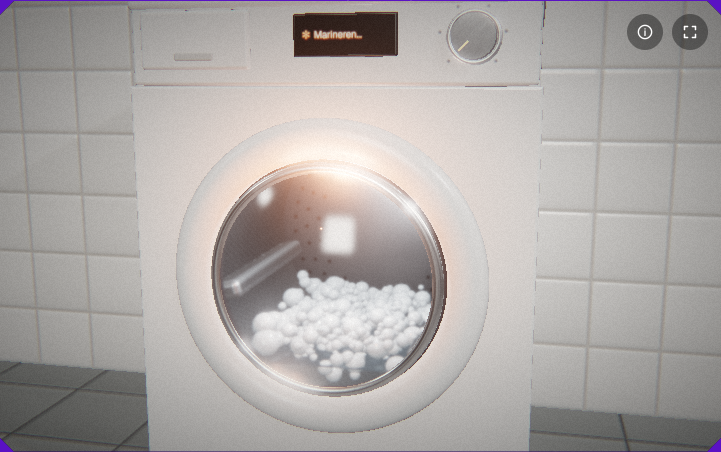
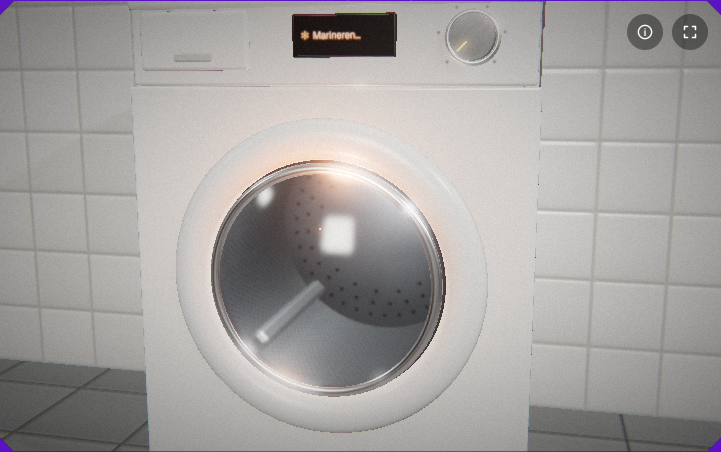
Mashups: lege wasmachine, klok met secondewijzer, bovenrek in de vaatwasser
- Bufferen: schuim en water weg, de trommel is leeg.
- Nadenken: secondewijzer erbij; de klok slaat als hartwijzer en secondewijzer
  op hetzelfde streepje staan.
- Opschonen: bovenrek met kopjes staat in de machine, camera lager zodat de
  borden zichtbaar blijven; binnenlampje dat de kopjes overbelichtte gedimd;
  stoom elke derde hartslag.
- Ook de camerabeweging loopt nu op de hartslag.

diff --git a/src/speelkamer/mashups/opschonen.ts b/src/speelkamer/mashups/opschonen.ts
@@ -2,7 +2,7 @@
  * Opschonen: vaatwasser × defragmenteren.
  * Een open vaatwasser. De borden in het onderrek zijn de blokken van een harde schijf:
  * terracotta = gefragmenteerd, kobalt = op zijn plek, celadon = systeembestand (blijft staan).
- * Het bovenrek met kopjes is naar voren uitgetrokken. Bij elke hartslag zet de machine één bord
+ * In het bovenrek staan kopjes. Bij elke hartslag zet de machine één bord
  * op zijn plaats en geeft de sproeiarm een stoot. Is alles opgeruimd, dan spoelt hij even na,
  * en begint een nieuwe dag.
  */
@@ -38,8 +38,8 @@ function clink(vol = 0.05) {
 export function opschonen(st: Stage): Mashup {
   const S = st.scene;
   S.background = new THREE.Color(0x14110f);
-  st.rig.pos.set(0.3, 1.78, 1.12);
-  st.rig.target.set(0, 0.26, -0.14);
+  st.rig.pos.set(0.22, 1.02, 1.36);
+  st.rig.target.set(0, 0.3, -0.3);
   st.camera.fov = 33;
   st.scene.environmentIntensity = 0.45;
   st.finish.uniforms.warmth.value = 0.25;
@@ -81,7 +81,7 @@ export function opschonen(st: Stage): Mashup {
   // ---------------------------------------------------------------- vaatwasser
   const brushed = brushedTex(47, 512, true).tex;
   const steel = mat.steel(0.3, brushed);
-  const tub = new THREE.Mesh(new THREE.BoxGeometry(0.56, 0.72, 0.58), new THREE.MeshStandardMaterial({ color: 0xc9ccce, metalness: 1, roughness: 0.34, roughnessMap: brushed, side: THREE.BackSide }));
+  const tub = new THREE.Mesh(new THREE.BoxGeometry(0.56, 0.72, 0.58), new THREE.MeshStandardMaterial({ color: 0xb9bcbe, metalness: 1, roughness: 0.42, roughnessMap: brushed, envMapIntensity: 0.35, side: THREE.BackSide }));
   tub.position.set(0, 0.46, -0.29);
   S.add(tub);
   const lip = new THREE.Mesh(new THREE.BoxGeometry(0.6, 0.04, 0.03), steel);
@@ -108,8 +108,8 @@ export function opschonen(st: Stage): Mashup {
   const led = new THREE.Mesh(new THREE.BoxGeometry(0.4, 0.006, 0.012), new THREE.MeshBasicMaterial({ color: new THREE.Color(1.6, 1.7, 1.9) }));
   led.position.set(0, 0.815, -0.04);
   S.add(led);
-  const inner = new THREE.PointLight(0xe8f2ff, 0.9, 1.4, 2);
-  inner.position.set(0, 0.74, -0.12);
+  const inner = new THREE.PointLight(0xe8f2ff, 0.12, 1.2, 2);
+  inner.position.set(0, 0.36, 0.02);
   inner.castShadow = true;
   inner.shadow.mapSize.set(1024, 1024);
   inner.shadow.radius = 5;
@@ -152,10 +152,10 @@ export function opschonen(st: Stage): Mashup {
       const z = slotZ(k) - 0.0205;
       for (const dx of [-0.05, 0.05]) lines.push(m4(new THREE.Vector3(cx + dx, 0.035, z), new THREE.Euler(0.18, 0, 0), 0.7));
     }
-  // bovenrek: naar voren uitgetrokken over de open deur, met kopjes ondersteboven
+  // bovenrek met kopjes ondersteboven, gewoon in de machine
   const up = new THREE.Group();
   const UX = 0.24, UZ = 0.2;
-  up.position.set(0, 0.44, 0.38);
+  up.position.set(0, 0.52, -0.3);
   S.add(up);
   const ul: THREE.Matrix4[] = [];
   for (let i = 0; i <= 10; i++) ul.push(m4(new THREE.Vector3(-UX + (i / 10) * 2 * UX, 0, 0), new THREE.Euler(Math.PI / 2, 0, 0), (2 * UZ) / 0.1));
@@ -174,10 +174,10 @@ export function opschonen(st: Stage): Mashup {
   const uInst = new THREE.InstancedMesh(wire(0.1), coat, ul.length);
   ul.forEach((m, i) => uInst.setMatrixAt(i, m));
   up.add(uInst);
-  // rails van het bovenrek, vanuit de kuip naar voren
+  // rails van het bovenrek
   for (const s2 of [-1, 1]) {
-    const rail = new THREE.Mesh(new RoundedBoxGeometry(0.012, 0.02, 0.92, 2, 0.003), mat.steel(0.25));
-    rail.position.set(s2 * (UX + 0.022), 0.45, 0.2);
+    const rail = new THREE.Mesh(new RoundedBoxGeometry(0.012, 0.02, 0.56, 2, 0.003), mat.steel(0.25));
+    rail.position.set(s2 * (UX + 0.022), 0.53, -0.3);
     S.add(rail);
     for (const z of [-0.12, 0.12]) {
       const w = new THREE.Mesh(new THREE.CylinderGeometry(0.011, 0.011, 0.008, 16), mat.plastic(0x3a3c40));
@@ -327,6 +327,7 @@ export function opschonen(st: Stage): Mashup {
   let soundOn = false;
   let tNow = 0;
   let spurt = 0;
+  let steamDue = false;
 
   const progress = () => {
     const good = plates.filter((p) => p.cat === 'ok' && T.has(p.slot) && !p.anim).length;
@@ -395,6 +396,7 @@ export function opschonen(st: Stage): Mashup {
         lastBeatT = t;
         step();
         spurt = 1;
+        if (b % 3 === 0) steamDue = true; // elke derde slag een wolkje stoom
       }
       spurt = Math.max(0, spurt - dt * 2.2);
       // borden in beweging
@@ -450,11 +452,12 @@ export function opschonen(st: Stage): Mashup {
         pPos[i * 3] += pVel[i * 3] * dt;
         pPos[i * 3 + 1] += pVel[i * 3 + 1] * dt;
         pPos[i * 3 + 2] += pVel[i * 3 + 2] * dt;
-        if (pPos[i * 3 + 1] < 0.11 || (pPos[i * 3 + 1] > 0.43 && pPos[i * 3 + 2] > 0.25)) pLife[i] = 0;
+        if (pPos[i * 3 + 1] < 0.11 || pPos[i * 3 + 1] > 0.51) pLife[i] = 0;
       }
       pGeo.attributes.position.needsUpdate = true;
       // stoom komt rustig naar buiten
-      if (Math.random() < dt * (0.9 + rinse * 0.6)) {
+      if (steamDue) {
+        steamDue = false;
         const s = steam.find((x) => !x.s.visible);
         if (s) {
           s.s.visible = true;
@@ -475,7 +478,7 @@ export function opschonen(st: Stage): Mashup {
         s.s.position.set(s.x + s.vx * s.age, lerp(0.55, 1.15, k), lerp(-0.08, 0.12, k));
         const sc = lerp(0.18, 0.55, k);
         s.s.scale.set(sc, sc, 1);
-        s.s.material.opacity = Math.sin(k * Math.PI) * 0.07;
+        s.s.material.opacity = Math.sin(k * Math.PI) * 0.035;
       }
       hum?.filter.frequency.setTargetAtTime(380 + lvl * 420 * rinse, audio().ctx.currentTime, 0.15);
     },

diff --git a/src/speelkamer/mashups/nadenken.ts b/src/speelkamer/mashups/nadenken.ts
@@ -1,9 +1,9 @@
 /**
  * Nadenken: een regulateur die op je hartslag loopt.
- * Uur- en minuutwijzer geven de gewone tijd aan. De terracotta lolliwijzer is je hart: hij springt
- * één streepje per hartslag, en de slinger zwaait één keer per slag. Telkens als de hartwijzer de
- * minuutwijzer inhaalt, slaat de klok: de tijd en je hartslag raken elkaar even. Hoe rustiger je
- * hart, hoe langer het duurt tot de volgende slag.
+ * Uur-, minuut- en secondewijzer geven de gewone tijd aan. De terracotta lolliwijzer is je hart: hij
+ * springt één streepje per hartslag, en de slinger zwaait één keer per slag. Telkens als hartwijzer
+ * en secondewijzer op hetzelfde streepje staan, slaat de klok: de tijd en je hartslag raken elkaar.
+ * Hoe dichter je hart bij 60 slagen per minuut komt, hoe langer ze samen oplopen.
  * Over de muur trekt langzaam het zonlicht van een raam.
  */
 import * as THREE from 'three';
@@ -241,6 +241,18 @@ export function nadenken(st: Stage): Mashup {
   const minHand = new THREE.Mesh(breguet(0.112, 0.0032), blued);
   minHand.position.set(0, dialY, handZ + 0.0018);
   clock.add(minHand);
+  // secondewijzer: een dunne stalen naald met contragewicht
+  const secShape = new THREE.Shape();
+  secShape.moveTo(-0.0007, -0.032);
+  secShape.lineTo(0.0007, -0.032);
+  secShape.lineTo(0.00045, 0.118);
+  secShape.lineTo(-0.00045, 0.118);
+  secShape.closePath();
+  const secW = new THREE.Shape();
+  secW.absarc(0, -0.026, 0.0052, 0, Math.PI * 2, false);
+  const secHand = new THREE.Mesh(new THREE.ExtrudeGeometry([secShape, secW], { depth: 0.001, bevelEnabled: false, curveSegments: 20 }), new THREE.MeshStandardMaterial({ color: 0x1a1a1c, metalness: 0.8, roughness: 0.3 }));
+  secHand.position.set(0, dialY, handZ + 0.0029);
+  clock.add(secHand);
   const lolly = new THREE.Shape();
   lolly.moveTo(-0.0011, -0.03);
   lolly.lineTo(0.0011, -0.03);
@@ -253,7 +265,7 @@ export function nadenken(st: Stage): Mashup {
   tail.absarc(0, -0.026, 0.004, 0, Math.PI * 2, false);
   const terra = new THREE.MeshStandardMaterial({ color: TERRA, roughness: 0.35, metalness: 0.2 });
   const beatHand = new THREE.Mesh(new THREE.ExtrudeGeometry([lolly, disc, tail], { depth: 0.0012, bevelEnabled: false, curveSegments: 24 }), terra);
-  beatHand.position.set(0, dialY, handZ + 0.0038);
+  beatHand.position.set(0, dialY, handZ + 0.0042);
   clock.add(beatHand);
   // naaf: een kleine vonk, die gloeit als de klok slaat
   const sparkTex = canvasTex(256, 256, (g) => {
@@ -307,9 +319,10 @@ export function nadenken(st: Stage): Mashup {
   let soundOn = false;
   let strikes = 0;
   let strikeT = -99;
-  let prevGap = NaN;
+  let armed = false;
+  let lastSec = -1;
+  let secT = 0;
   const TAU = Math.PI * 2;
-  const wrap = (a: number) => ((a % 1) + 1) % 1;
 
   return {
     setSound(on) {
@@ -330,9 +343,17 @@ export function nadenken(st: Stage): Mashup {
         stepped = true;
         if (soundOn) tick(0.22, b % 2 === 1);
       }
-      // gewone tijd
+      // gewone tijd; de secondewijzer verspringt elke seconde, zonder geluid: het tikken is van je hart
       const now = new Date();
-      const sec = now.getSeconds() + now.getMilliseconds() / 1000;
+      const s = now.getSeconds();
+      if (s !== lastSec) {
+        lastSec = s;
+        secT = t;
+        stepped = true;
+      }
+      const sec = s + now.getMilliseconds() / 1000;
+      const ks = Math.min(1, (t - secT) / 0.18);
+      secHand.rotation.z = -((s - 1 + ease(ks)) / 60) * TAU;
       const min = (now.getMinutes() + sec / 60) / 60;
       const hr = ((now.getHours() % 12) + min) / 12;
       minHand.rotation.z = -min * TAU;
@@ -342,15 +363,17 @@ export function nadenken(st: Stage): Mashup {
       const over = Math.sin(Math.min(1, (t - beatT) / 0.6) * Math.PI) * 0.06 * (1 - k * 0.5);
       const heart = (b - 1 + ease(k)) / 60;
       beatHand.rotation.z = -heart * TAU - over * 0.02;
-      // slaan: de hartwijzer haalt de minuutwijzer in
+      // slaan: hartwijzer en secondewijzer staan op hetzelfde streepje. Daarna pas weer slaan als ze
+      // minstens vijf streepjes uit elkaar zijn geweest (lopen ze gelijk op, dan slaat hij maar één keer).
       if (stepped) {
-        const gap = wrap(b / 60 - min); // 0..1, hoe ver het hart vóór de tijd loopt
-        if (!Number.isNaN(prevGap) && prevGap > 0.9 && gap < 0.1 && t - strikeT > 8) {
+        const gap = (((b - s) % 60) + 60) % 60;
+        const dist = Math.min(gap, 60 - gap);
+        if (gap === 0 && armed) {
+          armed = false;
           strikes++;
           strikeT = t;
           if (soundOn) gong(0.55);
-        }
-        prevGap = gap;
+        } else if (dist >= 5) armed = true;
       }
       const glow = Math.exp(-(t - strikeT) * 0.9);
       capMat.emissiveIntensity = glow * 2.2;

diff --git a/src/speelkamer/Machines.tsx b/src/speelkamer/Machines.tsx
@@ -17,9 +17,9 @@ const GROEPEN: { titel: string; items: Machine[] }[] = [
 ];
 const TEKST: Record<Machine, { titel: string; kort: string; regel: string; spiegel: string }> = {
   opwarmen: { titel: 'Opwarmen', kort: 'magnetron × datacentrum', regel: 'Een magnetron uit de jaren tachtig. Op het draaiplateau staat geen mok maar een klein datacentrum. De racks knipperen en worden langzaam warm, en uit de kasten stijgen getallen op als stoom: enen en nullen, en de gewichten van een model. Je kijkt naar iets dat opwarmt, zoals je altijd naar een magnetron kijkt.', spiegel: 'Het plateau draait mee met je hart: tien slagen per rondje. De kookwekker tikt één seconde terug per hartslag, twee minuten lichaamstijd. Bij elke slag stijgt er een wolkje getallen op.' },
-  opschonen: { titel: 'Opschonen', kort: 'vaatwasser × defragmenteren', regel: 'Een open vaatwasser, het bovenrek met kopjes uitgetrokken. De borden in het onderrek zijn de blokken van een harde schijf: terracotta is gefragmenteerd, kobalt staat op zijn plek, celadon is een systeembestand dat nooit verschuift. De machine ruimt op, bord voor bord. Daarna spoelt hij na, en begint een nieuwe dag. Op de vloer ligt de kaart van de schijf als lichtvlek.', spiegel: 'Bij elke hartslag zet de machine één bord op zijn plaats en geeft de sproeiarm een stoot.' },
-  nadenken: { titel: 'Nadenken', kort: 'klok × hartslag', regel: 'Een regulateur aan de muur. Uur- en minuutwijzer geven gewoon de tijd aan. De terracotta lolliwijzer is je hart. Telkens als hij de minuutwijzer inhaalt, slaat de klok: de tijd en je hartslag raken elkaar even. Over de muur trekt langzaam het licht van een raam.', spiegel: 'De hartwijzer springt één streepje per hartslag en de slinger zwaait één keer per slag. Hoe rustiger je hart, hoe langer het duurt tot de klok weer slaat.' },
-  bufferen: { titel: 'Bufferen', kort: 'wasmachine × denkwoorden', regel: 'Een voorlader die nadenkt zoals een AI. De fases van het wasprogramma heten marineren, karnen, sudderen, herkauwen, mijmeren en zweven. Rond de deur draait een laadwieltje van lampjes. De trommel heeft de echte wascadans: een paar rondjes linksom, even stil, rondjes rechtsom. Binnenin alleen schuim.', spiegel: 'Het wieltje zet één stap per hartslag. De trommel telt zijn cadans in hartslagen, dus hij draait trager als jij rustiger wordt.' },
+  opschonen: { titel: 'Opschonen', kort: 'vaatwasser × defragmenteren', regel: 'Een open vaatwasser, met kopjes in het bovenrek. De borden in het onderrek zijn de blokken van een harde schijf: terracotta is gefragmenteerd, kobalt staat op zijn plek, celadon is een systeembestand dat nooit verschuift. De machine ruimt op, bord voor bord. Daarna spoelt hij na, en begint een nieuwe dag.', spiegel: 'Bij elke hartslag zet de machine één bord op zijn plaats en geeft de sproeiarm een stoot. De sproeiarm draait mee op je hart, elke derde slag komt er een wolkje stoom naar buiten.' },
+  nadenken: { titel: 'Nadenken', kort: 'klok × hartslag', regel: 'Een regulateur aan de muur. Uur-, minuut- en secondewijzer geven gewoon de tijd aan. De terracotta lolliwijzer is je hart. Telkens als hartwijzer en secondewijzer op hetzelfde streepje staan, slaat de klok: de tijd en je hartslag raken elkaar even. Over de muur trekt langzaam het licht van een raam.', spiegel: 'De hartwijzer springt één streepje per hartslag en de slinger zwaait één keer per slag. Hoe dichter je hart bij 60 slagen per minuut komt, hoe langer de twee wijzers samen oplopen en hoe zeldzamer de klok slaat.' },
+  bufferen: { titel: 'Bufferen', kort: 'wasmachine × denkwoorden', regel: 'Een voorlader die nadenkt zoals een AI. De fases van het wasprogramma heten marineren, karnen, sudderen, herkauwen, mijmeren en zweven. Rond de deur draait een laadwieltje van lampjes. De trommel heeft de echte wascadans: een paar rondjes linksom, even stil, rondjes rechtsom.', spiegel: 'Het wieltje zet één stap per hartslag. De trommel telt zijn cadans in hartslagen, dus hij draait trager als jij rustiger wordt.' },
   magnetron: { titel: 'Draaiplateau', kort: 'magnetron', regel: 'Een mok die langzaam rondjes draait in warm licht. Wachten tot de piep.', spiegel: 'Het plateau draait één keer per ademhaling. Een echt plateau draait 5 à 6 keer per minuut: het tempo van rustig ademen.' },
   wasmachine: { titel: 'Trommel', kort: 'wasmachine', regel: 'Wasgoed dat valt en weer wordt opgetild. Linksom, even stil, rechtsom.', spiegel: 'De trommel draait één keer per ademhaling.' },
   projectie: { titel: 'Nog 1:12', kort: 'vaatwasser', regel: 'Een moderne vaatwasser projecteert de resterende tijd als lichtvlek op de keukenvloer. Je kijkt ernaar zonder iets te verwachten.', spiegel: 'De tijd telt één seconde af per hartslag; de lichtgolven dijen uit op je adem.' },

diff --git a/src/speelkamer/mashups/bufferen.ts b/src/speelkamer/mashups/bufferen.ts
@@ -3,13 +3,13 @@
  * Een voorlader die 'nadenkt' zoals een AI: de fases van het wasprogramma heten marineren, karnen,
  * sudderen, herkauwen, mijmeren en zweven. Rond de deur loopt een ring van lampjes als laadwieltje,
  * één stap per hartslag. De trommel heeft de echte wascadans: een paar rondjes linksom, even stil,
- * rondjes rechtsom. In de trommel alleen schuim.
+ * rondjes rechtsom. De trommel is leeg.
  */
 import * as THREE from 'three';
 import { RoundedBoxGeometry } from 'three/examples/jsm/geometries/RoundedBoxGeometry.js';
 import { audio, Hum, tick } from '../sound';
 import type { Drive } from '../Digitaal';
-import { brushedTex, canvasTex, font, keyLight, mat, rng, shadows, tileTex, type Mashup, type Stage } from './stage';
+import { brushedTex, canvasTex, font, keyLight, mat, shadows, tileTex, type Mashup, type Stage } from './stage';
 
 /** Fases van het programma: een denkwoord en hoe de trommel beweegt (omwentelingen per hartslag). */
 type Fase = { woord: string; omega: (p: number) => number };
@@ -224,42 +224,6 @@ export function bufferen(st: Stage): Mashup {
   drumLight.position.set(0, doorY + 0.1, dz + 0.12);
   m.add(drumLight);
 
-  // water
-  const waterY = -0.152;
-  const chord = 2 * Math.sqrt(0.2 * 0.2 - waterY * waterY);
-  const foam = canvasTex(512, 512, (g) => {
-    g.fillStyle = '#3f525c';
-    g.fillRect(0, 0, 512, 512);
-    const r = rng(79);
-    for (let i = 0; i < 260; i++) {
-      g.fillStyle = `rgba(240,248,255,${0.03 + r() * 0.16})`;
-      g.beginPath();
-      g.arc(r() * 512, r() * 512, 2 + r() * 14, 0, Math.PI * 2);
-      g.fill();
-    }
-  });
-  const water = new THREE.Mesh(new THREE.PlaneGeometry(chord, 0.36, 24, 24), new THREE.MeshPhysicalMaterial({ map: foam.tex, roughness: 0.06, clearcoat: 1, metalness: 0.1 }));
-  water.rotation.x = -Math.PI / 2;
-  water.position.set(0, doorY + waterY, dz);
-  m.add(water);
-
-  // schuim: honderden belletjes die op de bodem liggen en meegolven met de trommel
-  const r = rng(83);
-  const NB = 520;
-  const foamMat = new THREE.MeshPhysicalMaterial({ color: 0xf2f6f9, roughness: 0.18, clearcoat: 1, clearcoatRoughness: 0.05, iridescence: 0.45, iridescenceIOR: 1.3, sheen: 0.5, sheenColor: new THREE.Color(0xdfefff) });
-  const bubbles = new THREE.InstancedMesh(new THREE.IcosahedronGeometry(1, 3), foamMat, NB);
-  bubbles.castShadow = bubbles.receiveShadow = true;
-  m.add(bubbles);
-  const bub = Array.from({ length: NB }, () => {
-    const depth = Math.pow(r(), 0.7); // 0 = tegen de wand, 1 = bovenop de berg
-    return { a: -Math.PI / 2 + (r() - 0.5) * 2.2 * (1 - depth * 0.55), rr: 0.19 - depth * 0.07 - r() * 0.01, z: dz - 0.17 + r() * 0.34, s: 0.005 + r() * r() * 0.022 * (1 - depth * 0.4), ph: r() * 6 };
-  });
-  const bm = new THREE.Matrix4();
-  const bq = new THREE.Quaternion();
-  const bv = new THREE.Vector3();
-  const bs = new THREE.Vector3();
-  water.visible = true;
-
   shadows(m);
   floor.receiveShadow = wall.receiveShadow = true;
   glass.castShadow = false;
@@ -276,7 +240,6 @@ export function bufferen(st: Stage): Mashup {
   let prog = 0;
   let hum: Hum | null = null;
   let soundOn = false;
-  let slosh = 0;
 
   let lcdKey = '';
   const drawLcd = () => {
@@ -330,27 +293,9 @@ export function bufferen(st: Stage): Mashup {
       const db = Number.isNaN(prevBeat) ? 0 : Math.max(0, Math.min(0.2, d.beat - prevBeat));
       prevBeat = d.beat;
       const want = FASES[prog].omega(beatsIn + (d.beat - b));
-      const prevOmega = omega;
       omega += (want - omega) * Math.min(1, dt * 2.2); // traagheid: rustig optrekken en uitlopen
       angle += omega * db * Math.PI * 2;
       drum.rotation.z = angle;
-      // schuim klotst tegen de draairichting in en zakt weer terug
-      const acc = (omega - prevOmega) / Math.max(dt, 1e-3);
-      slosh += (Math.max(-0.6, Math.min(0.6, omega * 0.9 + acc * 0.25)) - slosh) * Math.min(1, dt * 1.6);
-      water.rotation.y = slosh * 0.08;
-      water.position.y = doorY + waterY + Math.sin(t * 1.1) * 0.002;
-      for (let i = 0; i < NB; i++) {
-        const q = bub[i];
-        const lift = slosh * (0.5 + (0.19 - q.rr) * 4);
-        const a = q.a + lift + Math.sin(t * 0.7 + q.ph) * 0.02;
-        const rr = q.rr + Math.sin(t * 0.9 + q.ph * 2) * 0.002;
-        bv.set(Math.cos(a) * rr, doorY + Math.sin(a) * rr, q.z);
-        const sc = q.s * (1 + Math.sin(t * 1.3 + q.ph) * 0.06);
-        bs.set(sc, sc * 0.92, sc);
-        bm.compose(bv, bq, bs);
-        bubbles.setMatrixAt(i, bm);
-      }
-      bubbles.instanceMatrix.needsUpdate = true;
       // laadwieltje rond de deur: één stap per hartslag, met een staart
       const since = t - headT;
       dots.forEach((dm, i) => {

diff --git a/src/speelkamer/mashups/Mashup.tsx b/src/speelkamer/mashups/Mashup.tsx
@@ -53,8 +53,9 @@ export default function Mashup({ kind, d, soundOn, info }: { kind: MashupKind; d
       last = now;
       const t = now / 1000;
       m.update(dRef.current, t, dt);
-      // de camera schuift heel traag heen en weer in een eigen tempo (14 s), los van de bezoeker
-      st.render(0.5 - 0.5 * Math.cos((t / 14) * Math.PI * 2), t);
+      // ook de camera loopt op de hartslag: heel traag in en uit, één keer per 14 slagen
+      const beat = dRef.current.beat;
+      st.render(0.5 - 0.5 * Math.cos((beat / 14) * Math.PI * 2), beat);
       if (now - lastStatus > 250) {
         lastStatus = now;
         setStatus(m.status());

diff --git a/docs/werkvormen/07-machine-meditaties.md b/docs/werkvormen/07-machine-meditaties.md
@@ -36,11 +36,11 @@ Het idee erachter: we wachten al een eeuw op machines. Eerst op de magnetron en 
 | Mashup | Wat je ziet | Op je hartslag |
 |---|---|---|
 | **Opwarmen**<br>magnetron × datacentrum | Een magnetron uit de jaren tachtig. Op het draaiplateau staat een klein datacentrum. De racks knipperen en worden langzaam warm. Uit de kasten stijgen getallen op als stoom: enen en nullen, en de gewichten van een model. | Het plateau draait tien slagen per rondje. De kookwekker tikt één seconde terug per hartslag: twee minuten lichaamstijd. Bij elke slag stijgt er een wolkje getallen op. |
-| **Opschonen**<br>vaatwasser × defragmenteren | Een open vaatwasser, het bovenrek met kopjes uitgetrokken. De borden in het onderrek zijn de blokken van een harde schijf: terracotta is gefragmenteerd, kobalt staat op zijn plek, celadon is een systeembestand dat nooit verschuift. Daarna spoelt hij na en begint een nieuwe dag. | Bij elke hartslag zet de machine één bord op zijn plaats, met een tikje van de leeskop en het klinken van porselein. De sproeiarm geeft een stoot. |
-| **Nadenken**<br>klok × hartslag | Een regulateur aan de muur. Uur- en minuutwijzer geven de gewone tijd aan. De terracotta lolliwijzer is je hart. Telkens als hij de minuutwijzer inhaalt, slaat de klok: de tijd en je hartslag raken elkaar even. | De hartwijzer springt één streepje per slag, de slinger zwaait één keer per slag. Hoe rustiger je hart, hoe langer het duurt tot de klok weer slaat. |
-| **Bufferen**<br>wasmachine × denkwoorden | Een voorlader die nadenkt zoals een AI. De fases van het programma heten marineren, karnen, sudderen, herkauwen, mijmeren en zweven. Rond de deur draait een laadwieltje van lampjes. De trommel heeft de echte wascadans: rondjes linksom, even stil, rondjes rechtsom. Binnenin alleen schuim. | Het wieltje zet één stap per hartslag. De trommel telt zijn cadans in hartslagen, dus hij draait trager als jij rustiger wordt. |
+| **Opschonen**<br>vaatwasser × defragmenteren | Een open vaatwasser, met kopjes in het bovenrek. De borden in het onderrek zijn de blokken van een harde schijf: terracotta is gefragmenteerd, kobalt staat op zijn plek, celadon is een systeembestand dat nooit verschuift. Daarna spoelt hij na en begint een nieuwe dag. | Bij elke hartslag zet de machine één bord op zijn plaats, met een tikje van de leeskop en het klinken van porselein. De sproeiarm geeft een stoot en draait mee, elke derde slag komt er stoom naar buiten. |
+| **Nadenken**<br>klok × hartslag | Een regulateur aan de muur. Uur-, minuut- en secondewijzer geven de gewone tijd aan. De terracotta lolliwijzer is je hart. Telkens als hartwijzer en secondewijzer op hetzelfde streepje staan, slaat de klok: de tijd en je hartslag raken elkaar even. | De hartwijzer springt één streepje per slag, de slinger zwaait één keer per slag. Hoe dichter je hart bij 60 slagen per minuut komt, hoe langer de twee wijzers samen oplopen en hoe zeldzamer de klok slaat. |
+| **Bufferen**<br>wasmachine × denkwoorden | Een voorlader die nadenkt zoals een AI. De fases van het programma heten marineren, karnen, sudderen, herkauwen, mijmeren en zweven. Rond de deur draait een laadwieltje van lampjes. De trommel heeft de echte wascadans: rondjes linksom, even stil, rondjes rechtsom. | Het wieltje zet één stap per hartslag. De trommel telt zijn cadans in hartslagen, dus hij draait trager als jij rustiger wordt. |
 
-**Alleen de hartslag.** De mashups volgen alleen je hart. Dat is één helder ritme dat je kunt zien (een stap, een bord, een tik) en horen. Twee ritmes tegelijk maakt het beeld onrustig en de koppeling onduidelijk. De adem wordt wel gemeten. Zo laat het experiment zien of een machine die je hart spiegelt ook je ademhaling vertraagt, zonder dat ze die nadoet.
+**Alleen de hartslag.** De mashups volgen alleen je hart: elke beweging, ook de langzame camera, loopt op je slagen. Dat is één helder ritme dat je kunt zien (een stap, een bord, een tik) en horen. Twee ritmes tegelijk maakt het beeld onrustig en de koppeling onduidelijk. De adem wordt wel gemeten. Zo laat het experiment zien of een machine die je hart spiegelt ook je ademhaling vertraagt, zonder dat ze die nadoet.
 
 **In de expo.** Elke mashup kan volledig scherm (de knop rechtsboven of de toets `f`). Na een paar seconden zonder beweging verdwijnen de knoppen en de cursor. De toelichting staat achter het i-icoon, zodat het beeld zelf leeg blijft.
 
